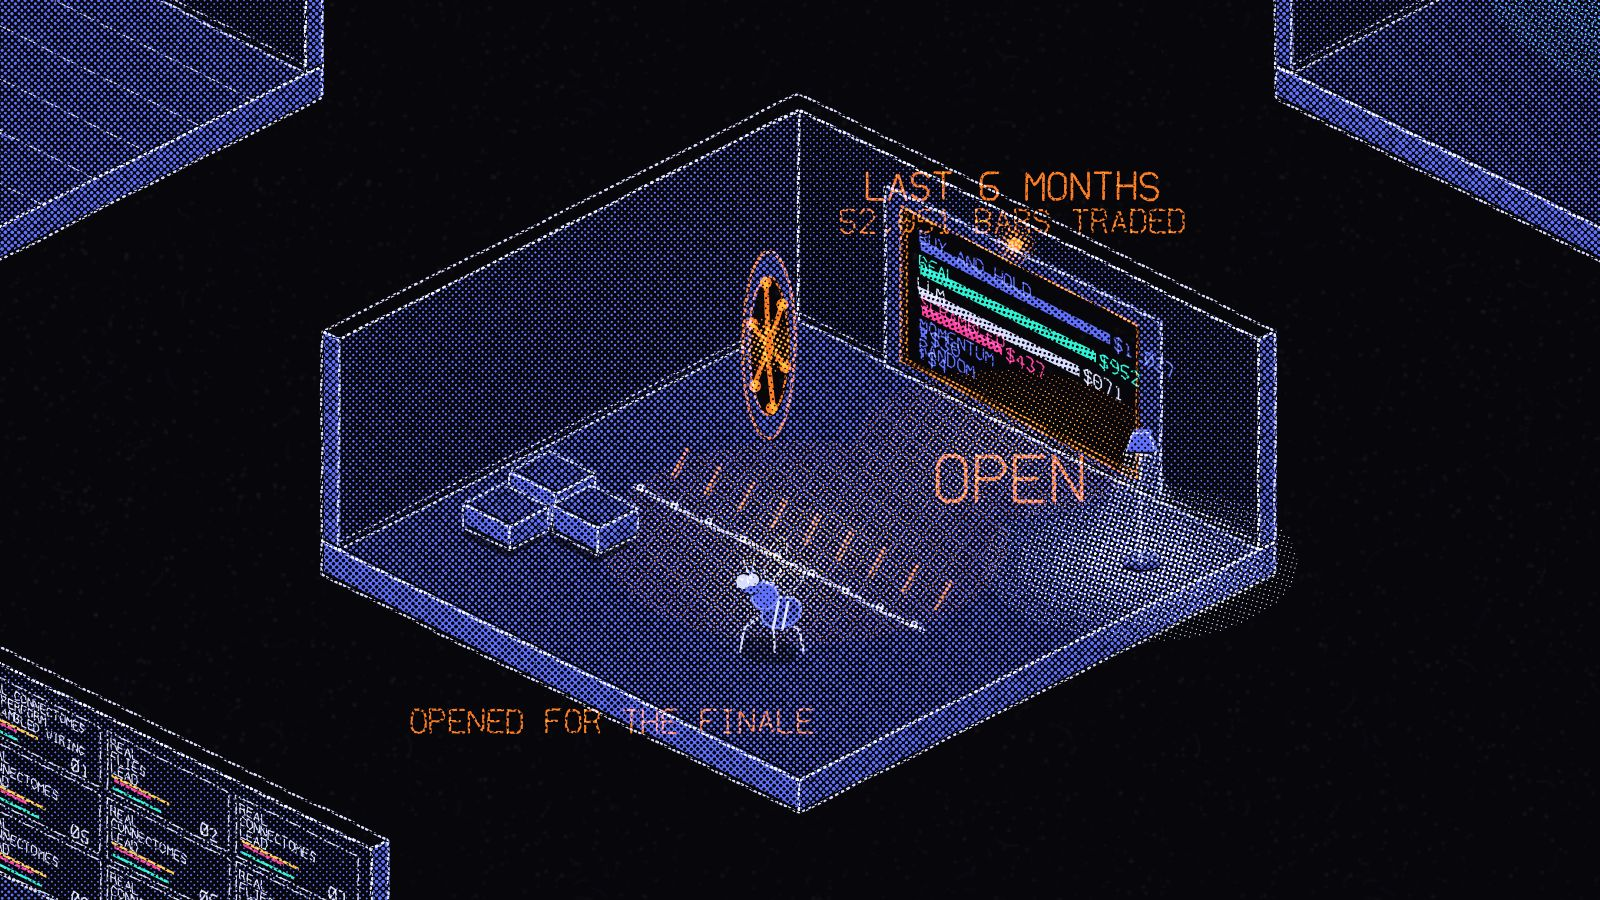
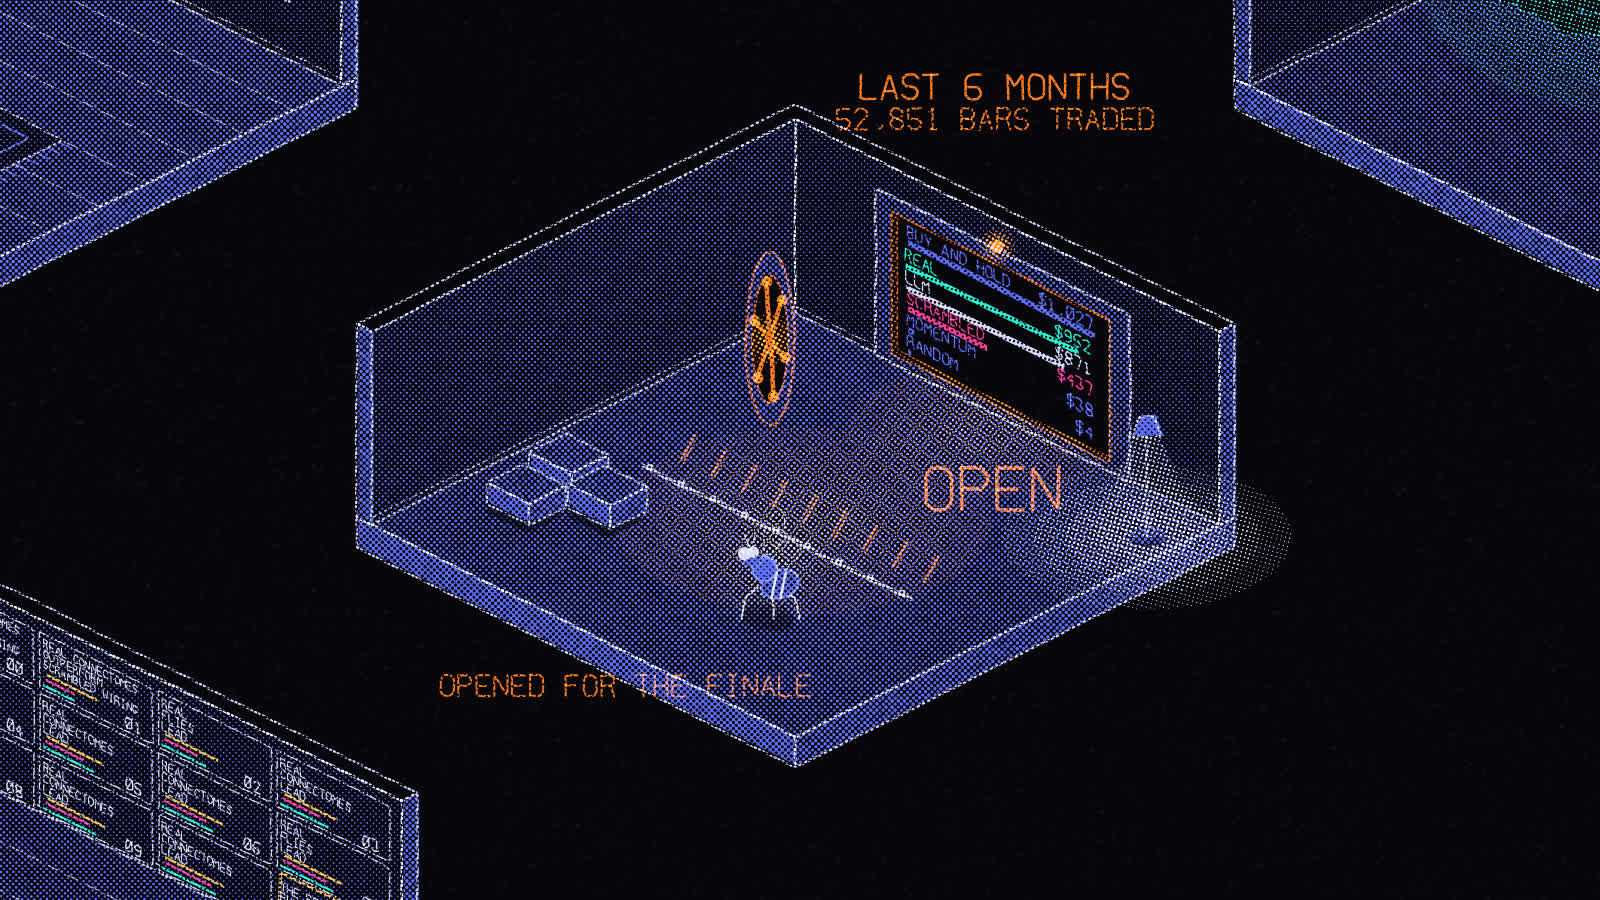
README: the video link, the hero's desk in place of the switchboard, the vault retaken

diff --git a/README.md b/README.md
@@ -1,4 +1,4 @@
-<a href="[paste video URL]"><img src="docs/images/banner.jpg" alt="Real vs fake: fly brains x Bitcoin. Watch the video" width="100%"></a>
+<a href="https://www.youtube.com/watch?v=FZTktpYUHTI"><img src="docs/images/banner.jpg" alt="Real vs fake: fly brains x Bitcoin. Watch the video" width="100%"></a>
 
 # Hedgefly: Natural Selection Capital
 
@@ -10,7 +10,7 @@ tribe whose wiring was scrambled, then face six months of prices none of them ha
 **Walk through it yourself:** <https://tacdelgineer.github.io/hedgefly/> (drag to look around,
 number keys jump between rooms, I for the key list and credits)
 
-**Watch the video:** [paste video URL]
+**Watch the video:** [I Gave 100 Fruit Fly Brains $1,000 Each to Trade Bitcoin](https://www.youtube.com/watch?v=FZTktpYUHTI)
 
 The brains come from the MaleCNS v1.0 connectome and never change. Only the genome that connects
 market data to the brain, and brain output to trades, evolves. The run is told as a building of
@@ -25,7 +25,7 @@ isometric rooms drawn entirely in code, and every number on its walls is read fr
 <td width="50%"><img src="docs/screenshots/brain-room.jpg" alt="The Brain Room"><br><b>The Brain Room.</b> The fly's own wiring, and the same wiring shuffled.</td>
 </tr>
 <tr>
-<td><img src="docs/screenshots/switchboard.jpg" alt="The Switchboard"><br><b>The Switchboard.</b> The genome: every dial a fly inherits, and the few a child had changed.</td>
+<td><img src="docs/screenshots/heros-desk.jpg" alt="The Hero's Desk"><br><b>The Hero's Desk.</b> The real tribe's best fly, its family line on the wall, and what its $1,000 became.</td>
 <td><img src="docs/screenshots/barcode-wall.jpg" alt="The Barcode Wall"><br><b>The Barcode Wall.</b> One column per fly, one row per generation: the whole run as a barcode.</td>
 </tr>
 <tr>
